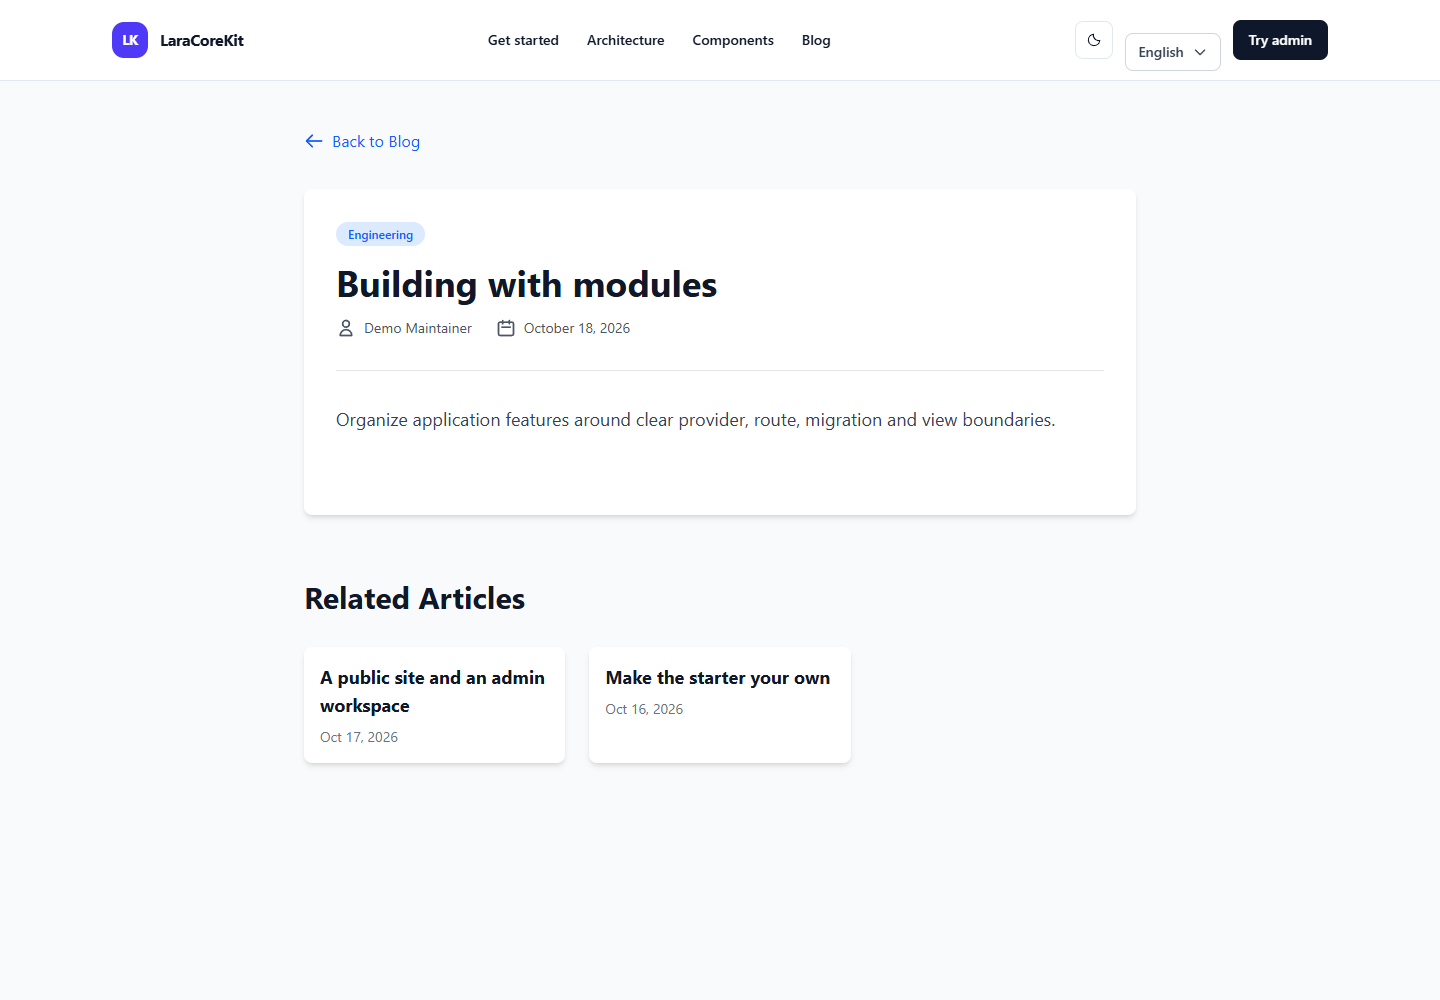
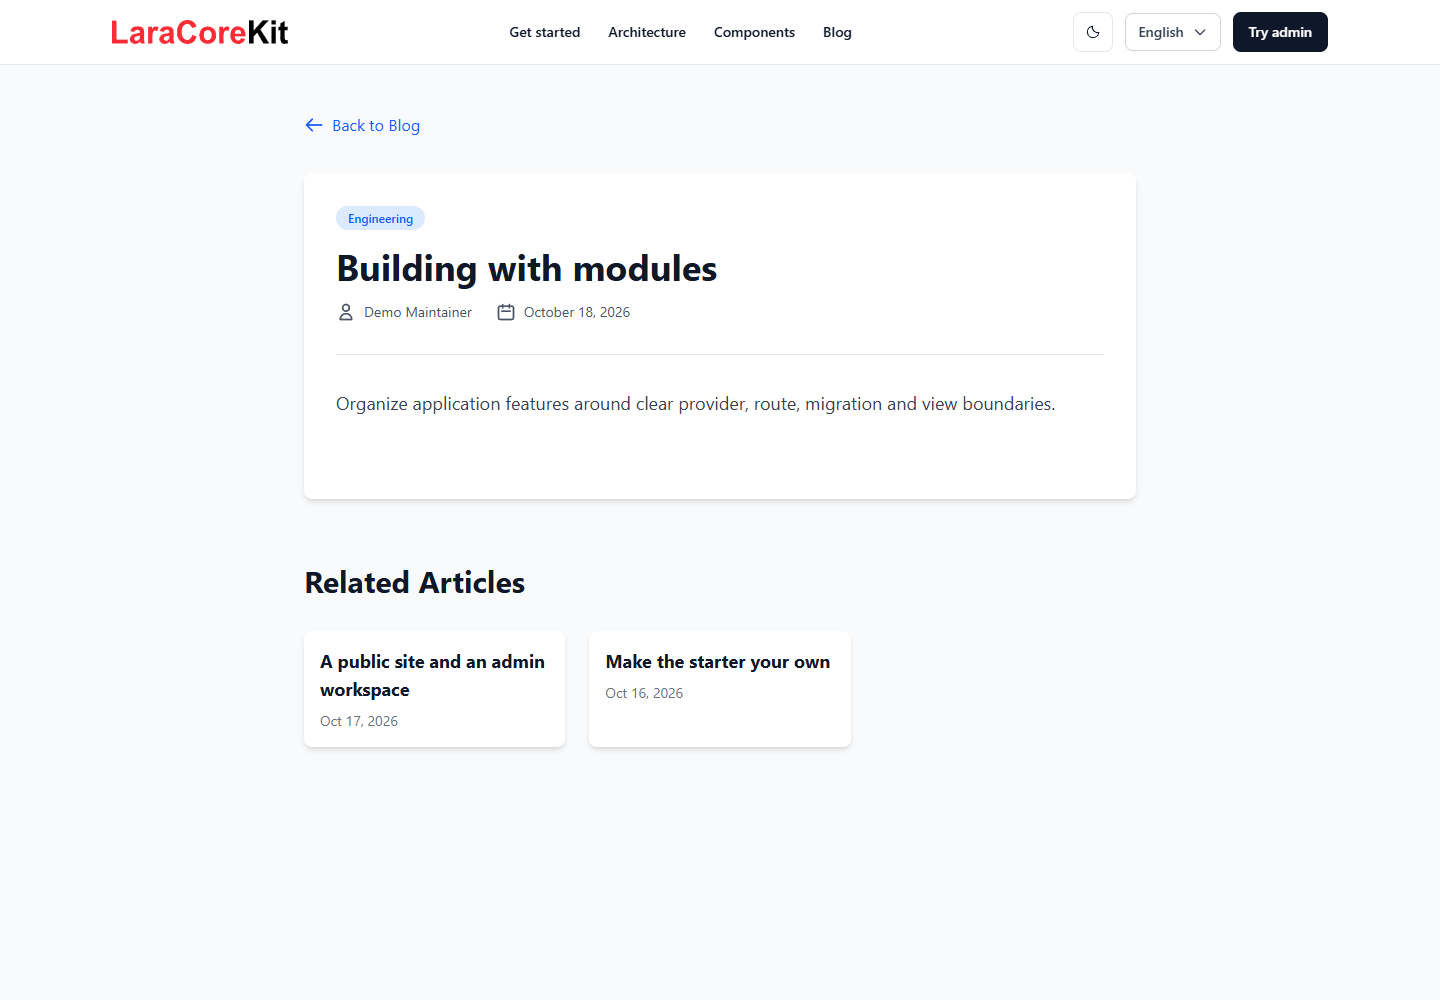
Complete release regression checks and document Packagist publication

diff --git a/resources/views/site/home.blade.php b/resources/views/site/home.blade.php
@@ -1,11 +1,11 @@
 <div>
     <section class="relative overflow-hidden border-b border-slate-200 dark:border-slate-800">
         <div aria-hidden="true" class="pointer-events-none absolute -top-40 end-0 h-[600px] w-[600px] rounded-full bg-indigo-100/60 blur-3xl dark:bg-indigo-950/40"></div>
-        <div class="relative mx-auto grid max-w-7xl items-center gap-14 px-5 py-20 sm:px-8 lg:grid-cols-2 lg:py-28">
+        <div class="relative mx-auto grid grid-cols-1 max-w-7xl items-center gap-14 px-5 py-20 sm:px-8 lg:grid-cols-2 lg:py-28">
             <div>
                 <p class="mb-6 inline-flex items-center gap-2 rounded-full border border-indigo-200 bg-indigo-50 px-3 py-1.5 text-xs font-semibold text-indigo-700 dark:border-indigo-900 dark:bg-indigo-950 dark:text-indigo-300"><span class="h-1.5 w-1.5 rounded-full bg-indigo-500"></span> {{ __('Open source. Public frontend + admin.') }}</p>
                 <h1 class="max-w-xl text-5xl font-bold leading-[1.08] tracking-tight sm:text-6xl">{{ __('Your next Laravel app.') }} <span class="text-indigo-600 dark:text-indigo-400">{{ __('Already connected.') }}</span></h1>
-                <p class="mt-7 max-w-lg text-lg leading-8 text-slate-600 dark:text-slate-400">{{ __('Start with a public website and an admin workspace that work together. Authentication, roles, multilingual content, settings, and media—organized into reusable modules.') }}</p>
+                <p class="mt-7 max-w-lg text-lg leading-8 text-slate-600 dark:text-slate-400">{{ __('Start with a public website and an admin workspace that work together. Authentication, roles, multilingual content, settings, and media-organized into reusable modules.') }}</p>
                 <div class="mt-9 flex flex-wrap gap-3"><a href="/docs/installation" class="rounded-xl bg-indigo-600 px-6 py-3.5 text-sm font-semibold text-white transition hover:bg-indigo-700">{{ __('Start building') }} <span aria-hidden="true">↗</span></a><a href="https://github.com/ProgrammerNomad/LaraCoreKit" class="rounded-xl border border-slate-300 px-6 py-3.5 text-sm font-semibold transition hover:bg-slate-50 dark:border-slate-700 dark:hover:bg-slate-900">{{ __('Explore the source') }}</a></div>
                 <p class="mt-6 text-xs text-slate-500">MIT licensed · PHP 8.3+ · Laravel 13 · Filament 5 · Livewire 4</p>
             </div>
@@ -37,9 +37,9 @@
     </section>
 
     <section id="quick-start" class="border-y border-slate-200 bg-slate-50 dark:border-slate-800 dark:bg-slate-900/40">
-        <div class="mx-auto grid max-w-7xl gap-10 px-5 py-20 sm:px-8 lg:grid-cols-2">
+        <div class="mx-auto grid grid-cols-1 max-w-7xl gap-10 px-5 py-20 sm:px-8 lg:grid-cols-2">
             <div><p class="text-xs font-bold uppercase tracking-widest text-indigo-600 dark:text-indigo-400">{{ __('Choose your starting point') }}</p><h2 class="mt-3 text-3xl font-bold tracking-tight sm:text-4xl">{{ __('The package, or the full demo.') }}</h2><p class="mt-5 max-w-md text-base leading-8 text-slate-600 dark:text-slate-400">{{ __('Use the reusable package in a fresh Laravel application. Clone this repository when you want to explore the demo, documentation, and component showcase too.') }}</p><a href="/docs/installation" class="mt-6 inline-block text-sm font-semibold text-indigo-600 dark:text-indigo-400">{{ __('Read the complete installation guide') }} →</a></div>
-            <div class="space-y-4">
+            <div class="min-w-0 space-y-4">
                 <article class="rounded-xl border border-slate-200 bg-white p-6 dark:border-slate-700 dark:bg-slate-950"><div class="flex flex-wrap items-center justify-between gap-2"><h3 class="font-semibold">{{ __('Composer package') }}</h3><span class="rounded-full bg-amber-50 px-3 py-1 text-xs font-medium text-amber-800 dark:bg-amber-950 dark:text-amber-300">{{ __('Release preparation') }}</span></div><pre class="mt-4 overflow-x-auto rounded-lg bg-slate-900 p-4 text-xs leading-6 text-emerald-300"><code>composer require programmernomad/laracorekit
 php artisan laracorekit:install</code></pre><p class="mt-3 text-xs leading-6 text-slate-500">{{ __('The registry command becomes available after the first Packagist release. You can install just the package directly from GitHub now using the documented VCS repository.') }}</p></article>
                 <article class="rounded-xl border border-slate-200 bg-white p-6 dark:border-slate-700 dark:bg-slate-950"><h3 class="font-semibold">{{ __('GitHub demo and development host') }}</h3><pre class="mt-4 overflow-x-auto rounded-lg bg-slate-900 p-4 text-xs leading-6 text-slate-200"><code>git clone https://github.com/ProgrammerNomad/LaraCoreKit.git

diff --git a/tests/Feature/PackageSecurityTest.php b/tests/Feature/PackageSecurityTest.php
@@ -4,11 +4,17 @@ namespace Tests\Feature;
 
 use Database\Seeders\DemoSeeder;
 use Filament\Facades\Filament;
+use Illuminate\Auth\Notifications\ResetPassword;
 use Illuminate\Foundation\Testing\RefreshDatabase;
+use Illuminate\Http\UploadedFile;
 use Illuminate\Support\Facades\Hash;
+use Illuminate\Support\Facades\Notification;
+use Illuminate\Support\Facades\Password;
 use Illuminate\Support\Facades\RateLimiter;
+use Illuminate\Support\Facades\Storage;
 use LaraCoreKit\Core\Filament\LocalAvatarProvider;
 use Livewire\Livewire;
+use Modules\Auth\Http\Livewire\ForgotPassword;
 use Modules\Auth\Http\Livewire\Login;
 use Modules\Auth\Http\Livewire\Register;
 use Modules\Blog\Models\Blog;
@@ -158,5 +164,59 @@ class PackageSecurityTest extends TestCase
             'content' => ['en' => '<p>Safe paragraph</p><script>alert("unsafe-marker")</script>'],
             'status' => 'published', 'published_at' => now()->subMinute()]);
         $this->get('/blog/safe-post')->assertOk()->assertSee('Safe paragraph')->assertDontSee('<script>alert("unsafe-marker")</script>', false);
+    }
+
+    public function test_reset_link_response_does_not_disclose_account_existence(): void
+    {
+        Notification::fake();
+        $user = User::factory()->create();
+        foreach ([$user->email, 'missing@example.test'] as $email) {
+            Livewire::test(ForgotPassword::class)
+                ->set('email', $email)->call('sendResetLink')->assertHasNoErrors()
+                ->assertSet('message', __('If an account exists, a password reset link will be sent.'));
+        }
+        Notification::assertSentTo($user, ResetPassword::class);
+    }
+
+    public function test_reset_link_requests_are_throttled_before_contacting_broker(): void
+    {
+        RateLimiter::clear('laracorekit:reset:127.0.0.1');
+        Password::shouldReceive('sendResetLink')->times(5)->andReturn('passwords.sent');
+        for ($i = 0; $i < 6; $i++) {
+            Livewire::test(ForgotPassword::class)
+                ->set('email', 'visitor@example.test')->call('sendResetLink')->assertHasNoErrors();
+        }
+    }
+
+    public function test_password_reset_rejects_invalid_tokens_and_consumes_valid_tokens(): void
+    {
+        $user = User::factory()->create(['password' => 'original-password']);
+        $token = Password::createToken($user);
+        $form = Livewire::test(\Modules\Auth\Http\Livewire\ResetPassword::class, ['token' => 'invalid-token'])
+            ->set('email', $user->email)->set('password', 'replacement-password')
+            ->set('password_confirmation', 'replacement-password');
+        $form->call('resetPassword')->assertHasErrors('email');
+        $this->assertTrue(Hash::check('original-password', $user->fresh()->password));
+        $form->set('token', $token)->call('resetPassword')->assertHasNoErrors()->assertRedirect(route('login'));
+        $this->assertTrue(Hash::check('replacement-password', $user->fresh()->password));
+        $this->assertFalse(Password::tokenExists($user->fresh(), $token));
+    }
+
+    public function test_settings_upload_rejects_executable_and_oversized_images(): void
+    {
+        Storage::fake('public');
+        $this->seed(RolePermissionSeeder::class);
+        $admin = User::factory()->create();
+        $admin->assignRole('Admin');
+        $this->actingAs($admin);
+        Filament::setCurrentPanel(Filament::getPanel('admin'));
+        Livewire::test(Settings::class)
+            ->set('data.site_logo', [UploadedFile::fake()->create('shell.php', 1, 'application/x-php')])
+            ->call('save')->assertHasErrors('data.site_logo');
+        Livewire::test(Settings::class)
+            ->set('data.site_logo', [UploadedFile::fake()->image('large.png')->size(2049)])
+            ->call('save')->assertHasErrors('data.site_logo');
+        $this->assertDatabaseCount('settings', 0);
+        $this->assertSame([], Storage::disk('public')->allFiles('settings'));
     }
 }

diff --git a/tests/Feature/ModuleConfigurationTest.php b/tests/Feature/ModuleConfigurationTest.php
@@ -1,0 +1,47 @@
+<?php
+
+namespace Tests\Feature;
+
+use Illuminate\Config\Repository;
+use Illuminate\Foundation\Application;
+use LaraCoreKit\Core\CoreServiceProvider;
+use Tests\TestCase;
+
+class ModuleConfigurationTest extends TestCase
+{
+    public function test_disabled_optional_modules_are_not_registered(): void
+    {
+        $app = new Application(base_path());
+        $app->instance('config', new Repository(['laracorekit' => [
+            'modules' => ['Auth' => false, 'User' => false, 'Blog' => false, 'Settings' => false, 'Media' => false],
+            'panel' => ['enabled' => false], 'configure_auth' => false,
+        ]]));
+        (new CoreServiceProvider($app))->register();
+        $this->assertNotEmpty($app->getProviders(\Modules\Core\CoreServiceProvider::class));
+        foreach (['Auth', 'User', 'Blog', 'Settings', 'Media'] as $module) {
+            $this->assertSame([], $app->getProviders("Modules\\{$module}\\{$module}ServiceProvider"));
+        }
+    }
+
+    public function test_invalid_dependencies_fail_before_registering_modules(): void
+    {
+        foreach ([['Auth', 'User'], ['Blog', 'User'], ['Blog', 'Media']] as [$module, $dependency]) {
+            config(['laracorekit.modules' => ['Auth' => false, 'User' => true, 'Blog' => false, 'Media' => true]]);
+            config(["laracorekit.modules.{$module}" => true, "laracorekit.modules.{$dependency}" => false]);
+            try {
+                (new CoreServiceProvider($this->app))->register();
+                $this->fail('Invalid dependency combination was accepted.');
+            } catch (\LogicException $exception) {
+                $this->assertSame("LaraCoreKit {$module} requires the {$dependency} module.", $exception->getMessage());
+            }
+        }
+    }
+
+    public function test_panel_cannot_be_enabled_without_user_module(): void
+    {
+        config(['laracorekit.modules' => ['Auth' => false, 'User' => false, 'Blog' => false], 'laracorekit.panel.enabled' => true]);
+        $this->expectException(\LogicException::class);
+        $this->expectExceptionMessage('The LaraCoreKit panel requires the User module.');
+        (new CoreServiceProvider($this->app))->register();
+    }
+}

diff --git a/docs/package-release.md b/docs/package-release.md
@@ -46,3 +46,30 @@ The distribution repository's **Sync Package Source** workflow checks the public
 It validates the monorepo source, builds the package, tests a clean consumer, and opens a draft package-only update PR. It skips when extraction has not reached main yet, nothing has changed, or a prior package-sync PR is waiting for review. It preserves the distribution repository's maintenance workflow and never merges or tags a release.
 
 The job uses the distribution repository's own short-lived GITHUB_TOKEN, so no cross-repository personal token or Packagist secret is needed. The distribution repository must allow Actions to create pull requests. Review source updates before merging; then create a reviewed release tag for Packagist indexing.
+
+## Exact Packagist publication steps
+
+1. Resolve the GitHub account Actions lock and pass the host PR checks, including MySQL and the clean consumer. Review/merge the extraction PR before enabling daily synchronization from host main.
+2. Check the standalone repository contains the reviewed package export and prebuilt CSS. Its root `composer.json` must identify `programmernomad/laracorekit`, with no manual `version` field. The repository URL is `https://github.com/ProgrammerNomad/laracorekit-package`.
+3. In that repository's Actions tab, run **Prepare Release PR** with `0.1.0`. Review its release notes PR alongside the host validation and merge it. This prepares notes, not publication. If Actions remains blocked, edit/review release notes manually; do not describe blocked CI as passed.
+4. In the standalone repository's GitHub **Releases → Draft a new release**, choose **Create new tag** `v0.1.0` targeting the reviewed main commit. Set title `v0.1.0`, include the reviewed changelog and initial-release compatibility limits, then publish. This is the public versioned release. Do not tag the demo repository as the core release.
+5. Sign in to [Packagist](https://packagist.org/) as the maintainer of the `programmernomad` vendor. Open [Submit](https://packagist.org/packages/submit), paste `https://github.com/ProgrammerNomad/laracorekit-package`, click Check and confirm Submit. Packagist reads the package name from composer.json; the GitHub repository name can differ.
+6. Connect the GitHub account/integration from the Packagist profile and confirm the package shows automatic updates enabled. If necessary, use the account sync option described in [Packagist's setup documentation](https://packagist.org/about#how-to-update-packages). Do not paste your API token into this repository or a chat.
+7. Confirm the package page lists `v0.1.0`, then test in a fresh Laravel 13 app:
+
+```bash
+composer require programmernomad/laracorekit:"^0.1"
+php artisan laracorekit:install
+# Configure the application's .env and its database first.
+php artisan migrate
+php artisan laracorekit:admin
+php artisan storage:link
+```
+
+8. Verify `/blog`, `/login` and `/admin`, then update the website's unreleased notices and deploy the reviewed host. Enable the optional statistics collector on persistent storage only after the public package endpoint works.
+
+Future updates use reviewed source-sync PRs, then a release-notes PR and a new semantic tag. Packagist's GitHub integration indexes pushed tags; Composer updates remain under each consuming application's control. Download totals are not unique new installations or developer identities.
+
+The distribution workflow template lives at `.github/package-workflows/prepare-release.yml`; the executable copy lives in the standalone repository. Official references: [Packagist publishing/integration](https://packagist.org/about), [Composer versioning](https://getcomposer.org/doc/02-libraries.md).
+
+After a release, mirror its changelog section into `packages/core/CHANGELOG.md` in the monorepo before the next source synchronization so that exported release history remains intact.

diff --git a/docs/maintenance-and-distribution-audit.md b/docs/maintenance-and-distribution-audit.md
@@ -81,21 +81,21 @@ If active-installation measurement becomes necessary, design a separately review
 No dependencies were upgraded, package published, telemetry installed, or remote repository settings changed as part of this audit. The Dependabot configuration prepares update proposals; it does not establish that the application is up to date.
 
 
-## Follow-up status — 19 October 2026
+## Follow-up status - 19 October 2026
 
 This audit is **not fully closed**. The historical project/core names above are superseded by the single reusable library `programmernomad/laracorekit`; the website remains separate.
 
 | Area | Status |
 | --- | --- |
 | Dependency advisories, safe seeding, authentication throttling, analysis tooling | Implemented; local checks passed. See implementation report. |
-| Regression coverage | Expanded to 24 tests / 95 assertions; upload validation, password-reset flows and disabled-module dependency combinations still need dedicated regression coverage. |
+| Regression coverage | Expanded to 31 tests / 135 assertions, including upload validation, password-reset flows and disabled-module dependency combinations; passed on both supported test databases. |
 | Package extraction, clean installation, docs, actual screenshots | Implemented; GitHub VCS consumer installation verified. |
 | PHP matrix, locked/compatible CI, audits, builds, clean-consumer workflow | Configured; remote execution blocked by GitHub account billing lock. |
-| Database support matrix | SQLite checked; additional database engines remain unverified. |
+| Database support matrix | SQLite and isolated MySQL 8.0.45 checks passed. MySQL CI job added; PostgreSQL, MariaDB and SQL Server are outside the verified initial matrix. |
 | Responsive header and original logo | Follow-up fixes align controls, remove template BOM, use original red/black SVG and test seven viewport widths. |
-| Automated distribution | Daily draft sync PR workflow prepared; waits for host merge and working Actions. Release tags remain a maintainer decision. |
+| Automated distribution | Daily draft sync PR and manual release-notes PR workflows prepared; await host merge and working Actions. Release tags remain a maintainer decision. |
 | Adoption statistics | Optional daily Packagist snapshot command implemented; activation awaits package registration and persistent deployment storage. |
 | Packagist, initial tag, production deployment | Pending. No stable release or deployment claimed. |
-| Repository security settings | Dependabot configuration exists; alert/security-update settings need verification. |
+| Repository security settings | Vulnerability alerts and automated security-fix PRs enabled on both repositories and verified through the GitHub API. |
 
 See [implementation report](implementation-report.md) for validation evidence and release limitations.

diff --git a/docs/implementation-report.md b/docs/implementation-report.md
@@ -32,7 +32,7 @@ These are tested improvements, not a claim of a completed independent security a
 ## Website and documentation
 
 - Rebuilt the public homepage around the actual frontend/admin bundle, explicit installation paths and accurate release status.
-- Added responsive site/showcase navigation, accessible theme controls and improved documentation search keyboard/focus behavior.
+- Added responsive site/showcase navigation, accessible theme controls and improved documentation search keyboard/focus behavior. Restored the original red/black logo, removed the locale-template BOM that shifted the language control, reduced header height and fixed narrow-screen installation-card overflow; browser regression checks pass at seven widths from 320px to 1440px.
 - Added permission-aware admin overview statistics and real screenshots from disposable fixtures.
 - Corrected unsupported feature claims in installation, architecture, feature, deployment and addon guides.
 - Added Markdown source endpoints, `/llms.txt`, page descriptions, source-code metadata and a dynamic documentation sitemap. A pre-existing local static sitemap containing localhost URLs was moved into private storage so it cannot mask the route.
@@ -40,7 +40,7 @@ These are tested improvements, not a claim of a completed independent security a
 
 ## Validation
 
-- 24 PHPUnit tests, 95 assertions passed locally on PHP 8.3.
+- 31 PHPUnit tests, 135 assertions passed on both SQLite and an isolated MySQL 8.0.45 server, locally on PHP 8.3.
 - Pint and PHPStan passed.
 - Root and package Composer schemas validated strictly.
 - Composer and npm dependency audits reported zero advisories.
@@ -50,7 +50,7 @@ These are tested improvements, not a claim of a completed independent security a
 
 ## Automation and external status
 
-Weekly Dependabot proposals, scheduled dependency audits, PHP locked/compatible CI lanes, clean-consumer CI and a manual package-preview archive workflow are configured in source.
+Weekly Dependabot proposals, scheduled dependency audits, PHP locked/compatible CI lanes, a MySQL 8 service job, clean-consumer CI and a manual package-preview archive workflow are configured in source. GitHub vulnerability alerts and automated security-fix PRs are enabled and API-verified on both repositories. The distribution repository also has a manual draft release-notes PR workflow; it does not tag or publish.
 
 The distribution repository has a daily source-sync workflow using its own short-lived GITHUB_TOKEN. It proposes draft PRs rather than merging or tagging automatically, and waits for the extraction to reach the monorepo main branch.
 

diff --git a/packages/core/README.md b/packages/core/README.md
@@ -4,11 +4,11 @@ Reusable public frontend and Filament administration for Laravel. This repositor
 
 ## Installation
 
-LaraCoreKit is a reusable Laravel package for **both a public frontend and a Filament admin panel**. The website/demo application is a separate host in this repository. PHP 8.3+, Composer 2 and Laravel 13 are required. Node 22.12+ is required when building this repository's assets; CI uses Node 24.
+LaraCoreKit is a reusable Laravel package for **both a public frontend and a Filament admin panel**. The website/demo application is maintained separately in the LaraCoreKit monorepo. PHP 8.3+, Composer 2 and Laravel 13 are required. Node 22.12+ is required when building this repository's assets; CI uses Node 24.
 
 ## Release status
 
-The package source is in `packages/core`, named `programmernomad/laracorekit`. The [standalone GitHub source](https://github.com/ProgrammerNomad/laracorekit-package) is available; its first standalone Packagist release is being prepared. Do not assume that `composer require programmernomad/laracorekit` works until the package is registered and a stable tag exists. No account, activation key or telemetry is required.
+The package is maintained in the monorepo under `packages/core`, named `programmernomad/laracorekit`. The [standalone GitHub source](https://github.com/ProgrammerNomad/laracorekit-package) is available; its first standalone Packagist release is being prepared. Do not assume that `composer require programmernomad/laracorekit` works until the package is registered and a stable tag exists. No account, activation key or telemetry is required.
 
 ## Option A: install only the package directly from GitHub now
 
@@ -58,7 +58,7 @@ npm run build
 php artisan serve
 ```
 
-This repository uses a Composer **path repository** pointing at `packages/core`; keep that directory with the checkout. It includes the marketing website, docs viewer, showcase and the separately published demo-module dependency. The reusable package does not require any of those.
+The demo checkout uses a Composer **path repository** pointing at `packages/core`; keep that directory with the checkout. It includes the marketing website, docs viewer, showcase and the separately published demo-module dependency. The reusable package does not require any of those.
 
 Only on a disposable demo database, explicitly enable `DEMO_MODE=true` and seed `Database\Seeders\DemoSeeder`. Demo mode permits known sample credentials and scheduled resets. Never enable it for a customer deployment. See [demo setup](https://www.laracorekit.com/docs/deployment/demo-setup).
 

diff --git a/docs/advanced/testing.md b/docs/advanced/testing.md
@@ -9,3 +9,17 @@ Run `python tools/consumer-smoke.py` to install only the package into an isolate
 Run `composer pint-test`, `composer phpstan`, dependency audits and both frontend builds as well. CI separates locked dependencies from compatible updates. The browser smoke script requires Playwright and the disposable preview fixture; see the screenshot guide.
 
 See [installation](/docs/installation) and [package architecture](/docs/core/architecture).
+
+## Database support and regression checks
+
+The release validation covers SQLite and MySQL 8 on PHP 8.3. PHP 8.5 has configured CI lanes; remote execution must pass before claiming that version verified. PostgreSQL, MariaDB and SQL Server are not part of the verified database matrix for this release.
+
+The default `phpunit.xml` enforces an in-memory SQLite database. For MySQL, create a **disposable** database named `laracorekit_test`, set `DB_PORT` and `DB_PASSWORD` for that server and run:
+
+```bash
+php vendor/bin/phpunit --configuration phpunit.mysql.xml
+```
+
+That configuration forces MySQL on localhost with the dedicated test database. Tests migrate/reset its tables. Never use application data for this database. CI supplies an isolated MySQL 8 service.
+
+The suite now includes reset-token validation/consumption, neutral reset responses, reset throttling, executable/oversized image rejection and module dependency checks. Run `node tools/header-smoke.cjs` against the disposable preview to check header alignment, closed-menu height, open/close behavior and page overflow at seven widths from 320px to 1440px. Set `LARACOREKIT_PREVIEW_URL` to use another preview server.
